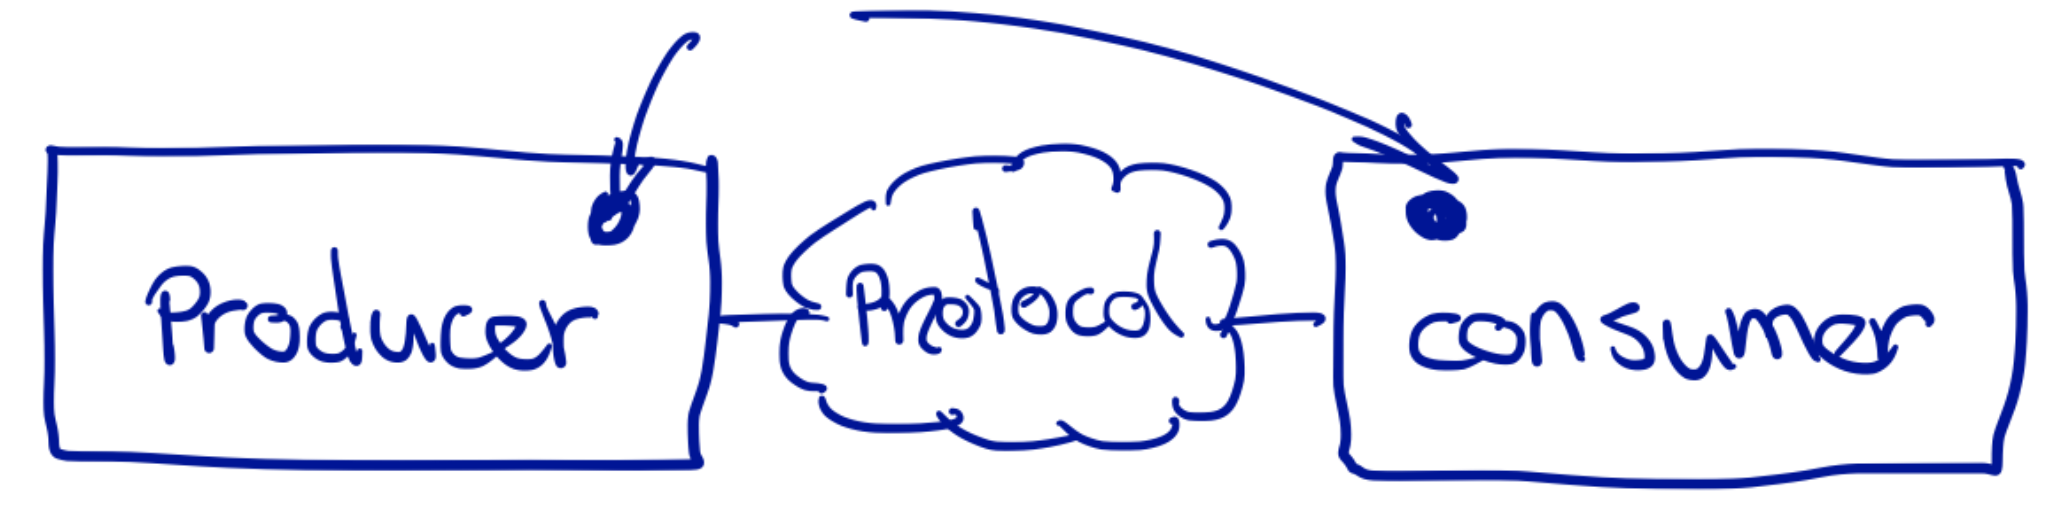
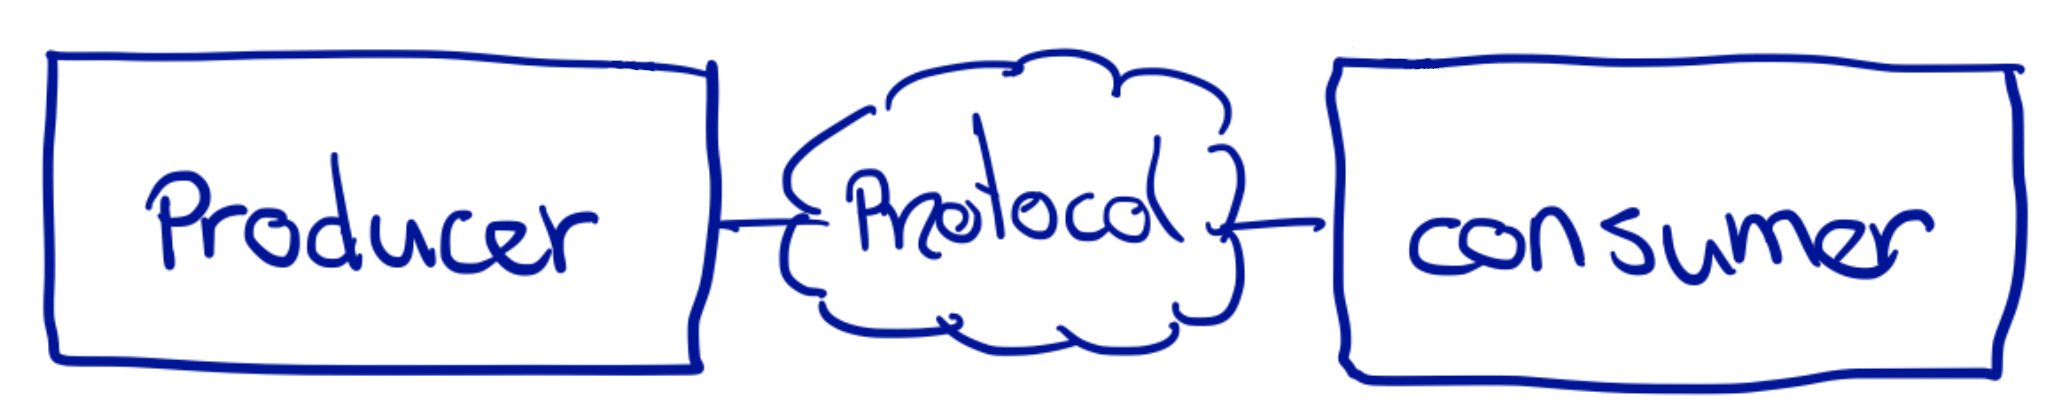
update c. algorithm

diff --git a/_drafts/connascence-algorithm.md b/_drafts/connascence-algorithm.md
@@ -6,7 +6,7 @@ tags:
   - coupling
   - design
 author: Marc Evers, Rob Westgeest, Willem van den Ende
-image: /attachments/blogposts/2026/connascence/slide-10-1-algorithm-example.png
+image: /attachments/blogposts/2026/connascence/algorithm-thumbnail.png
 ---
 
 In the previous posts, we [introduced the Connascence model as a model of coupling](/2026/05/08/connascence-intro) and elaborated connascence by name, type, meaning and position. In this post, we will discuss Connascence by Algorithm.
@@ -23,18 +23,18 @@ Connascence by Algorithm means two elements are coupled because they need to agr
 ![connascence by algorithm](/attachments/blogposts/2026/connascence/slide-10-1-algorithm-example.png)
 {: class="post-image post-image-50" }
 
-We see Connascence by Algorithm whenever two services need to exchange data, e.g. over the network. To consume an API, you need to know how the API works, what data in what format is returned. This also holds for file exports/imports
+Connascence by Algorithm occurs whenever two services need to exchange data, e.g. over the network. To consume an API, you need to know how the API works, what data in what format is returned. File exports/imports is another example of Connascence by Algorithm.
 
 ![picture showing a producer and a consumer that are coupled via a shared protocol](/attachments/blogposts/2026/connascence/algorithm.png)
-{: class="post-image post-image-50" }
+{: class="post-image post-image-70" }
 
-The Producer code below encodes information in a byte array. which gets sent over the network.
+The `Producer` code below encodes information in a byte array. which gets sent over the network.
 
 ```java
 class Producer {
   public static byte[] createFullFrame(byte ident, int tstamp, int xpos, int ypos,
-                                           Direction dir, Speed spd, Engine eon, CloseToOther close,
-                                           Collision coll)
+                                       Direction dir, Speed spd, Engine eon, 
+                                       CloseToOther close, Collision coll)
   {
     byte[] result = new byte[Protocol.FullFrameLength];
     result[0] = 0x00;
@@ -48,7 +48,7 @@ class Producer {
 }
 ```
 
-The consumer needs to know the order and meaning of the incoming bytes.
+The `Consumer` needs to know the order and meaning of the incoming bytes.
 
 ```java
 class Consumer {
@@ -62,16 +62,20 @@ class Consumer {
 }
 ```
 
-## Managing and refactoring Connascence by Algorithm
+Connascence by Algorithm is trickier to manage, because it often crosses system boundaries. It describes coupling between systems that have a different lifecycle and often a different owner. In other words, it usually refers to coupling at a high *distance*. Consumers evolve at their own pace, something we need to take care of when the algorithm or protocol evolves.
 
-What can you do to keep Connascence by Algorithm manageable?
+The *degree* of Connascence by Algorithm can make it worse. If a producer has many consumers, it becomes even more difficult for the algorithm to evolve.
 
-- Using **open & industry standard formats**. The more stable standard formats are, the less consumers & producers need to change, and the less impactful coupling is.
-- Using Language independent **schemas** (e.g. JSON schema, [AVRO](https://avro.apache.org/), [Protocol Buffers](https://protobuf.dev/)), schema registries and schema versioning; schemas and schema versioning do not take away the impact of changes, but they make it explicit, visible, manageable. 
-- **Contract testing** provides early feedback about producer and consumer changes.
+## Refactoring Connascence by Algorithm
 
-An alternative is creating a shared library that encapsulates the protocol. Both consumer and producer use the shared library. This moves the producing and consumer code together, increasing the locality of connascence.
+What can you do to keep Connascence by Algorithm manageable? Sometimes, We could merge producer and consumer services into a single service, reducing it to Connascence by Name and Type, but usually this is not possible. So we have to deal with it. We can make our lives a bit easier however:
 
+- Use **open & industry standard formats**. The more stable a format is, the less consumers & producers need to change, and the less impactful coupling is.
+- Use language independent **schemas** like JSON schema, [AVRO](https://avro.apache.org/), or [Protocol Buffers](https://protobuf.dev/)). This allows for schema versioning and sharing schemas through a schema registry. This does not remove the impact of changes, but it makes it more explicit. It allows us to evolve a protocol in steps with lower risk of breaking something.
+- **[Contract testing](https://pactflow.io/blog/what-is-contract-testing/)** provides early feedback about producer and consumer changes. 
+- Keep APIs **backward compatible** if possible, so that consumers are not affected by producer changes.
+- Perform explicit **lifecycle management**, through agreements with consumers, e.g. requiring consumers to upgrade to a new API version within 6 months of a change.
+- Create a **shared library** that encapsulates the protocol. Both consumer and producer use the shared library. This moves the producing and consumer code together, increasing the locality of connascence. This is not always possible and comes at the price of managing an extra dependency across multiple services.
 
 ## What's next
 
@@ -79,7 +83,7 @@ This post is part of a series on connascence and coupling. In the next post, we 
 
 - [Part 1 - Introduction](/2026/05/08/connascence-intro)
 - [Part 2 - Connascence by Name and Type](/2026/05/13/connascence-name-type)
-- [Part 3 - Connascence by Meaning]()
+- [Part 3 - Connascence by Meaning](/2026/05/21/connascence-meaning)
 - [Part 4 - Connascence by Position]()
 - *Part 5 - Connascence by Algorithm*
 - Part 6 - Connascence by Execution Order